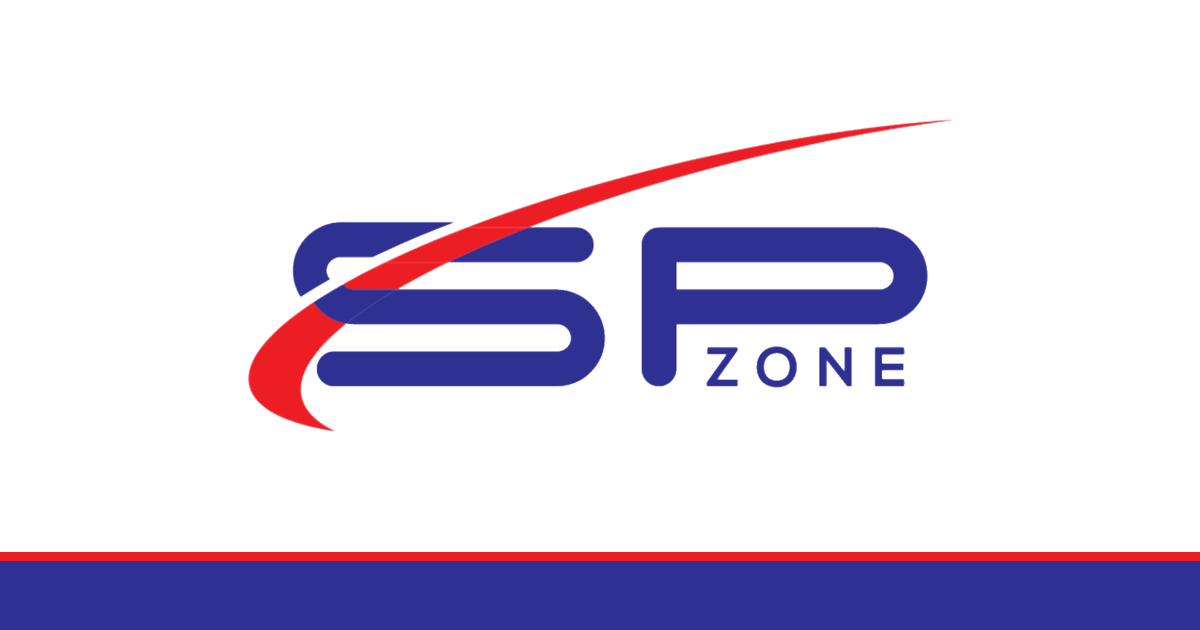
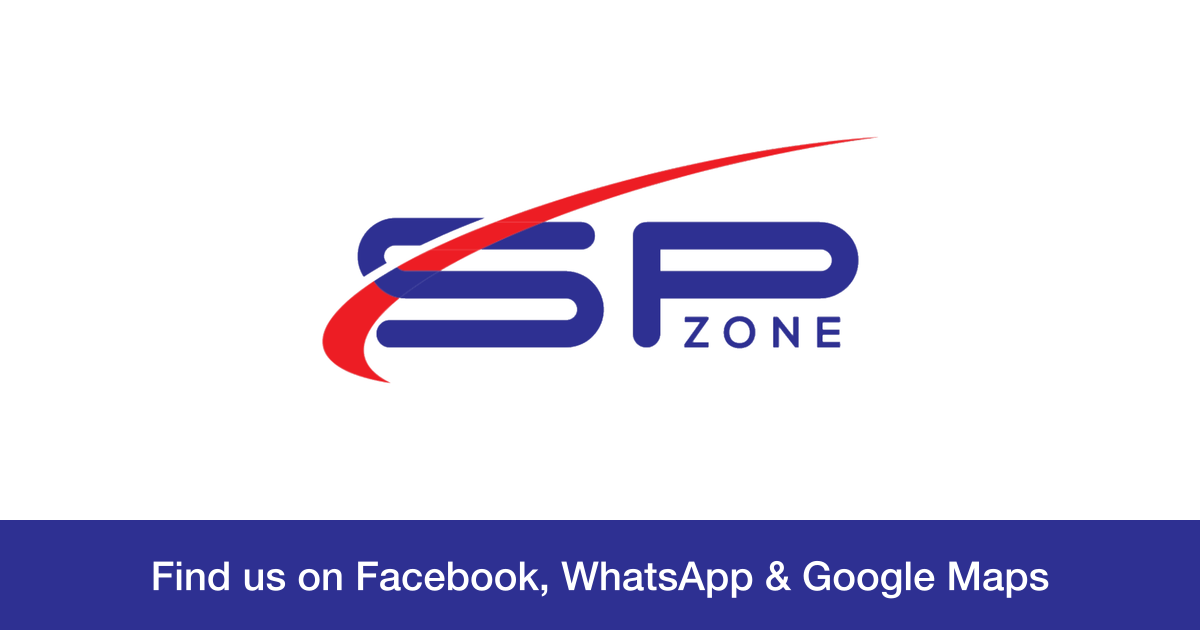
Hide Instagram/TikTok, real OG image, production OG meta

diff --git a/index.html b/index.html
@@ -8,20 +8,20 @@
   <meta name="theme-color" content="#2E3092">
   <meta name="color-scheme" content="light dark">
 
-  <!-- TODO: replace https://YOUR-DOMAIN with the deployed URL (crawlers need absolute og:image URLs) -->
-  <link rel="canonical" href="https://YOUR-DOMAIN/">
+  <!-- Absolute URLs on the production domain (crawlers need absolute og:image URLs) -->
+  <link rel="canonical" href="https://links.spzone.com.my/">
   <meta property="og:type" content="website">
-  <meta property="og:url" content="https://YOUR-DOMAIN/">
-  <meta property="og:title" content="SPZONE | Links">
-  <meta property="og:description" content="Find us, visit our website, or chat with SPZONE on WhatsApp.">
-  <meta property="og:image" content="https://YOUR-DOMAIN/assets/og-image.png">
+  <meta property="og:url" content="https://links.spzone.com.my/">
+  <meta property="og:title" content="SPZONE">
+  <meta property="og:description" content="Industrial automotive A/C flushing machines. Chat with us on WhatsApp or find our location.">
+  <meta property="og:image" content="https://links.spzone.com.my/assets/og-image.png">
   <meta property="og:image:width" content="1200">
   <meta property="og:image:height" content="630">
   <meta property="og:image:alt" content="SPZONE logo">
   <meta name="twitter:card" content="summary_large_image">
-  <meta name="twitter:title" content="SPZONE | Links">
-  <meta name="twitter:description" content="Find us, visit our website, or chat with SPZONE on WhatsApp.">
-  <meta name="twitter:image" content="https://YOUR-DOMAIN/assets/og-image.png">
+  <meta name="twitter:title" content="SPZONE">
+  <meta name="twitter:description" content="Industrial automotive A/C flushing machines. Chat with us on WhatsApp or find our location.">
+  <meta name="twitter:image" content="https://links.spzone.com.my/assets/og-image.png">
 
   <link rel="icon" href="assets/favicon.ico" sizes="any">
   <link rel="icon" href="assets/favicon-512.png" type="image/png">

diff --git a/script.js b/script.js
@@ -2,8 +2,8 @@
 // icon: one of the keys in ICONS below. utm: true appends ?utm_source=linkpage.
 const LINKS = [
   { label: "Facebook",         url: "https://www.facebook.com/Speedcarair",     icon: "facebook",  enabled: true },
-  { label: "Instagram",        url: "https://www.instagram.com/your-handle",    icon: "instagram", enabled: true }, // TODO: real Instagram URL
-  { label: "TikTok",           url: "https://www.tiktok.com/@your-handle",      icon: "tiktok",    enabled: true }, // TODO: real TikTok URL
+  { label: "Instagram",        url: "https://www.instagram.com/your-handle",    icon: "instagram", enabled: false }, // TODO: real Instagram URL
+  { label: "TikTok",           url: "https://www.tiktok.com/@your-handle",      icon: "tiktok",    enabled: false }, // TODO: real TikTok URL
   { label: "Google Maps",      url: "https://maps.app.goo.gl/XmUwZWpZraPy1iSJA", icon: "mapPin",   enabled: true },
   { label: "Visit Website",    url: "https://www.spzone.com.my",                icon: "globe",     enabled: true, utm: true },
   { label: "Chat on WhatsApp", url: "https://wa.me/60109025299",                icon: "whatsapp",  enabled: true },

diff --git a/assets/README.md b/assets/README.md
@@ -3,7 +3,7 @@
 | File | Size | Used for |
 |---|---|---|
 | `logo.png` | 960×464 | Header wordmark (shown at 220px wide; 960px keeps it sharp on 3x+ screens) |
-| `og-image.png` | 1200×630 | Link preview on WhatsApp / Facebook / X (placeholder: logo on white with navy band) |
+| `og-image.png` | 1200×630 | Link preview on WhatsApp / Facebook / X (logo on white with navy band; generated by `scripts/make-og-image.cjs`) |
 | `favicon.ico` | 16–64 | Browser tab icon |
 | `favicon-512.png` | 512×512 | High-res favicon / PWA-style icon |
 | `apple-touch-icon.png` | 180×180 | iOS "Add to Home Screen" |
@@ -23,7 +23,6 @@ Brand colours sampled from that file:
 
 - **Logo:** keep it a wide image on a white background. If the aspect ratio changes,
   update the `width`/`height` attributes on the `<img>` in `index.html` to avoid layout shift.
-- **OG image:** keep it at exactly 1200×630. After deploying, update the
-  `https://YOUR-DOMAIN` placeholders in `index.html` (og:image needs an absolute URL),
-  then re-scrape with the [Facebook Sharing Debugger](https://developers.facebook.com/tools/debug/)
+- **OG image:** keep it at exactly 1200×630. Regenerate with `scripts/make-og-image.cjs` (usage in the file header).
+  After deploying, re-scrape with the [Facebook Sharing Debugger](https://developers.facebook.com/tools/debug/)
   because WhatsApp/Facebook cache previews.
